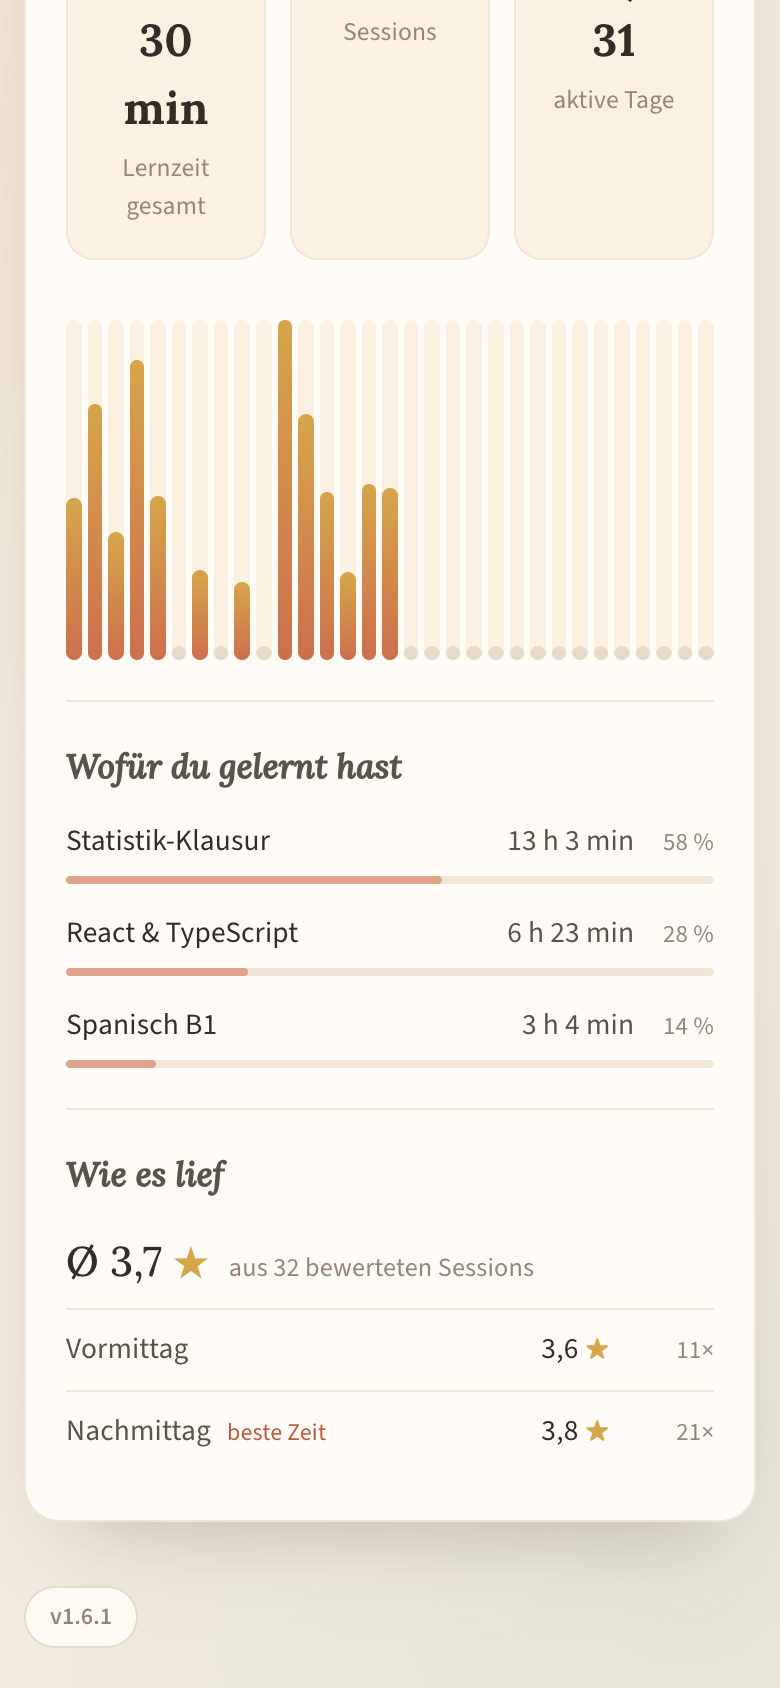
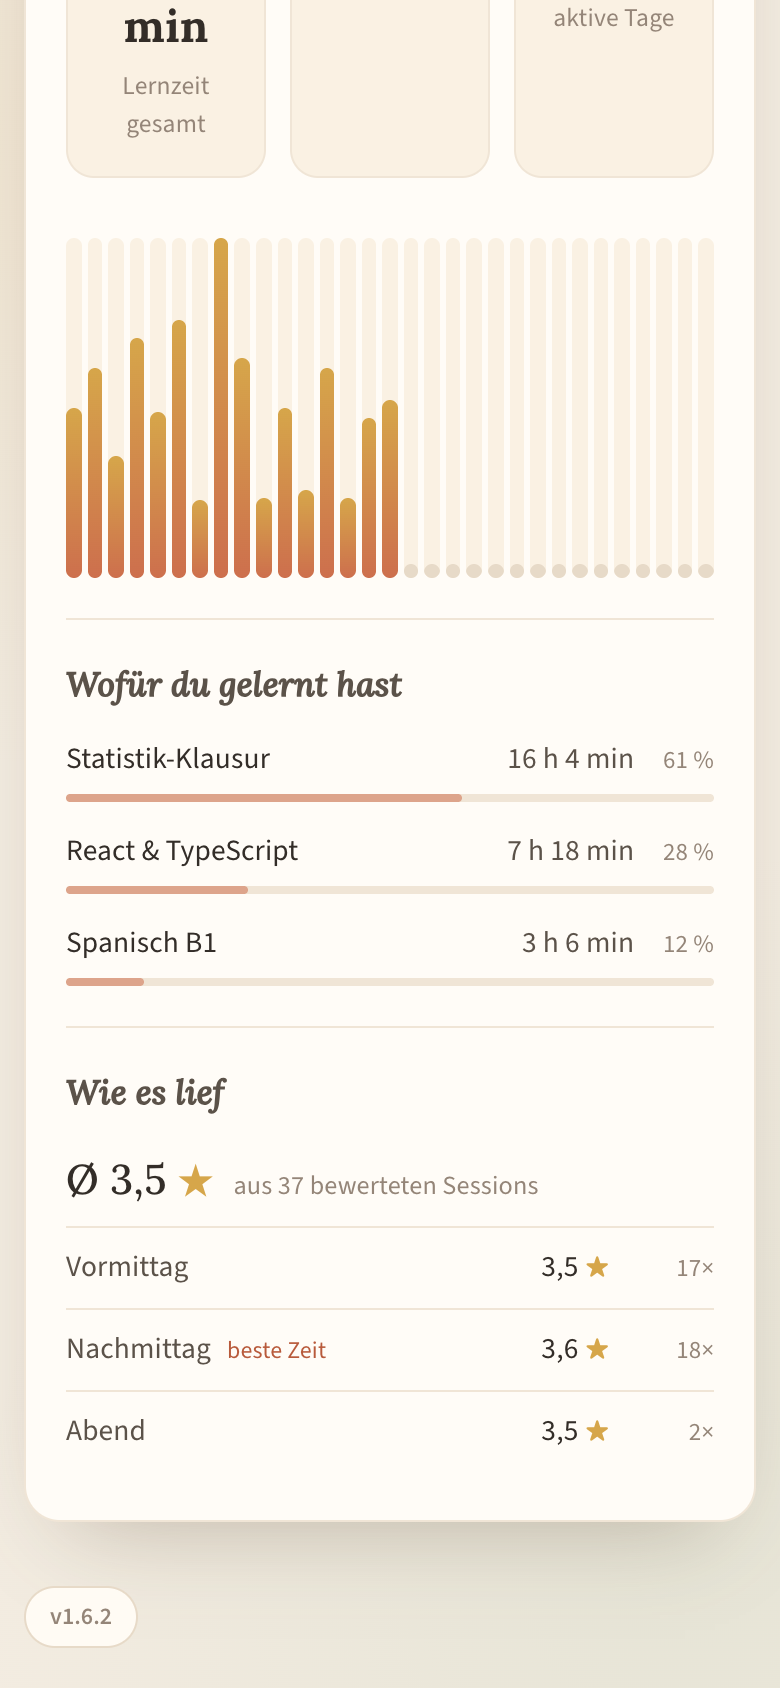
feat: v1.6.2 – Überschriften-Check entfernt
- Timer: Formular, Liste und Link für den Überschriften-Check entfernt;
  onFinish/handleFeedback schicken kein methodData mehr
- Projekt-Verlauf: Anzeige gespeicherter Überschriften-Checks entfernt
  (in der Live-DB gab es keine einzige), .heading-list-CSS gelöscht
- .timer-card mit fester Breite (520 px, max. 100 %): ohne den langen
  Link wäre die Karte sonst schmal geworden und "Session beenden" hätte
  auf dem Handy umgebrochen
- Backend unverändert: method_data bleibt als Spalte für alte Datenbanken,
  PATCH /sessions akzeptiert das Feld weiterhin von älteren Clients
- Demo-Daten ohne Überschriften-Checks, Screenshots + README aktualisiert

diff --git a/frontend/src/components/FocusTimer.jsx b/frontend/src/components/FocusTimer.jsx
@@ -31,12 +31,6 @@ export default function FocusTimer({ plannedMinutes, methodId, startedAtMs, onFi
   const [running, setRunning] = useState(initialRemaining > 0);
   const [done, setDone] = useState(initialRemaining <= 0);
 
-  // Überschriften-Check: beliebig oft während der Session nutzbar
-  const [headings, setHeadings] = useState([]);
-  const [showHeadingForm, setShowHeadingForm] = useState(false);
-  const [heading, setHeading] = useState('');
-  const [headingGuess, setHeadingGuess] = useState('');
-
   useEffect(() => {
     if (!running || done) return undefined;
 
@@ -86,21 +80,12 @@ export default function FocusTimer({ plannedMinutes, methodId, startedAtMs, onFi
     const activeSeconds = Math.floor((Date.now() - startedAtRef.current - pausedMs) / 1000);
     onFinish({
       focusSeconds: Math.min(Math.max(0, activeSeconds), total),
-      pausedSeconds: Math.round(pausedMs / 1000),
-      methodData: headings
+      pausedSeconds: Math.round(pausedMs / 1000)
     });
   };
 
   const discard = () => {
     if (window.confirm('Session wirklich verwerfen? Sie wird nicht gespeichert.')) onDiscard();
-  };
-
-  const addHeading = () => {
-    if (!heading.trim() || !headingGuess.trim()) return;
-    setHeadings((prev) => [...prev, { heading: heading.trim(), guess: headingGuess.trim() }]);
-    setHeading('');
-    setHeadingGuess('');
-    setShowHeadingForm(false);
   };
 
   const pausedSecondsTotal = Math.round(
@@ -124,56 +109,6 @@ export default function FocusTimer({ plannedMinutes, methodId, startedAtMs, onFi
             <p className="hint">Mach jetzt {breakMinutes} Minuten Pause, bevor du weitermachst.</p>
           )}
         </div>
-      )}
-
-      {headings.length > 0 && (
-        <div className="tool-box">
-          <p className="hint-label">Überschriften-Check</p>
-          <ul className="heading-list">
-            {headings.map((h, i) => (
-              <li key={i}>
-                <strong>{h.heading}</strong>
-                <span>{h.guess}</span>
-              </li>
-            ))}
-          </ul>
-        </div>
-      )}
-
-      {!done && showHeadingForm && (
-        <div className="tool-box">
-          <p className="hint-label">Überschriften-Check</p>
-          <label>
-            Nächste Überschrift
-            <input
-              type="text"
-              placeholder="z. B. Kontostruktur in Google Ads"
-              value={heading}
-              onChange={(e) => setHeading(e.target.value)}
-            />
-          </label>
-          <label>
-            Was denke ich, was das bedeutet?
-            <textarea
-              rows="2"
-              placeholder="Deine Vermutung, bevor du liest…"
-              value={headingGuess}
-              onChange={(e) => setHeadingGuess(e.target.value)}
-            />
-          </label>
-          <div className="actions">
-            <button type="button" className="secondary" onClick={() => setShowHeadingForm(false)}>Abbrechen</button>
-            <button type="button" onClick={addHeading} disabled={!heading.trim() || !headingGuess.trim()}>
-              Merken & lesen
-            </button>
-          </div>
-        </div>
-      )}
-
-      {!done && !showHeadingForm && (
-        <button className="link" onClick={() => setShowHeadingForm(true)}>
-          + Überschriften-Check (Vermutung vor dem Lesen festhalten)
-        </button>
       )}
 
       <div className="actions">

diff --git a/frontend/src/components/ProjectDashboard.jsx b/frontend/src/components/ProjectDashboard.jsx
@@ -18,20 +18,6 @@ const dayLabel = (date) => {
   return `${d}.${m}.${y}`;
 };
 
-// method_data: neues Format ist ein Array von Überschriften-Checks,
-// alte Sessions haben noch ein einzelnes Objekt {heading, headingGuess}
-const parseHeadings = (raw) => {
-  if (!raw) return [];
-  try {
-    const data = JSON.parse(raw);
-    if (Array.isArray(data)) return data;
-    if (data.heading) return [{ heading: data.heading, guess: data.guess || data.headingGuess }];
-    return [];
-  } catch {
-    return [];
-  }
-};
-
 const formatStartedAt = (dbDate) => {
   const d = parseDbDate(dbDate);
   return `${d.toLocaleDateString('de-DE', { day: '2-digit', month: '2-digit', year: '2-digit' })}, ${d.toLocaleTimeString('de-DE', { hour: '2-digit', minute: '2-digit' })} Uhr`;
@@ -42,8 +28,6 @@ const formatTime = (dbDate) =>
   `${parseDbDate(dbDate).toLocaleTimeString('de-DE', { hour: '2-digit', minute: '2-digit' })} Uhr`;
 
 function HistoryItem({ session, expanded, onToggle, onDelete }) {
-  const headings = parseHeadings(session.method_data);
-
   const handleDelete = (e) => {
     e.stopPropagation();
     if (window.confirm('Diese Session aus dem Verlauf löschen?')) onDelete(session.id);
@@ -71,19 +55,6 @@ function HistoryItem({ session, expanded, onToggle, onDelete }) {
             <>
               <p className="hint-label">Active Recall</p>
               <p className="history-text">{session.recall_text}</p>
-            </>
-          )}
-          {headings.length > 0 && (
-            <>
-              <p className="hint-label">Überschriften-Checks</p>
-              <ul className="heading-list">
-                {headings.map((h, i) => (
-                  <li key={i}>
-                    <strong>{h.heading}</strong>
-                    <span>{h.guess}</span>
-                  </li>
-                ))}
-              </ul>
             </>
           )}
           {session.feedback_note && (

diff --git a/frontend/src/style.css b/frontend/src/style.css
@@ -274,7 +274,10 @@ button.danger:hover { color: #93362b; }
 .hint-label { color: var(--muted); margin: 0; font-size: 0.78rem; text-transform: uppercase; letter-spacing: 0.09em; font-weight: 600; }
 .hint { color: var(--muted); font-style: italic; margin: 0; font-family: var(--serif); }
 
-.timer-card { align-items: center; text-align: center; }
+/* Feste Breite: Karten richten sich sonst nach ihrem breitesten Inhalt, und
+   ohne lange Texte würde der Timer schmal und "Session beenden" bricht um.
+   Auf dem Handy begrenzt max-width auf die Bildschirmbreite. */
+.timer-card { width: 520px; max-width: 100%; align-items: center; text-align: center; }
 .timer-card .tool-box { width: 100%; text-align: left; }
 .timer-card .actions { width: 100%; }
 
@@ -719,23 +722,6 @@ button.danger:hover { color: #93362b; }
 }
 .history-meta { margin: 0; color: var(--muted); font-size: 0.82rem; }
 .history-text { margin: 0; color: var(--text-soft); white-space: pre-wrap; }
-
-.heading-list {
-  list-style: none;
-  margin: 0;
-  padding: 0;
-  display: flex;
-  flex-direction: column;
-  gap: 8px;
-}
-.heading-list li {
-  display: flex;
-  flex-direction: column;
-  gap: 2px;
-  border-left: 3px solid var(--border);
-  padding-left: 10px;
-}
-.heading-list li span { color: var(--muted); font-size: 0.85rem; }
 
 .resume-banner {
   display: flex;

diff --git a/frontend/src/App.jsx b/frontend/src/App.jsx
@@ -143,8 +143,8 @@ export default function App() {
     setActiveSession(null);
   });
 
-  const handleTimerFinish = ({ focusSeconds, pausedSeconds, methodData }) => {
-    setActiveSession((prev) => ({ ...prev, focusSeconds, pausedSeconds, methodData }));
+  const handleTimerFinish = ({ focusSeconds, pausedSeconds }) => {
+    setActiveSession((prev) => ({ ...prev, focusSeconds, pausedSeconds }));
     setView('feedback');
   };
 
@@ -154,8 +154,7 @@ export default function App() {
     await api.finishSession(activeSession.id, {
       ...feedback,
       focusSeconds: activeSession.focusSeconds,
-      pausedSeconds: activeSession.pausedSeconds || 0,
-      methodData: activeSession.methodData?.length ? activeSession.methodData : null
+      pausedSeconds: activeSession.pausedSeconds || 0
     });
     const breakMinutes = breakMinutesFor(activeSession.methodId);
     if (breakMinutes) {

diff --git a/frontend/src/changelog.js b/frontend/src/changelog.js
@@ -1,8 +1,15 @@
 // Manuell gepflegt — bei jedem sichtbaren Release hier oben einen neuen Eintrag
 // ergänzen und APP_VERSION (+ "version" in package.json) hochzählen.
-export const APP_VERSION = '1.6.1';
+export const APP_VERSION = '1.6.2';
 
 export const CHANGELOG = [
+  {
+    version: '1.6.2',
+    date: '2026-10-16',
+    notes: [
+      'Überschriften-Check entfernt: Der Timer zeigt nur noch Zeit, Pause und Beenden'
+    ]
+  },
   {
     version: '1.6.1',
     date: '2026-10-16',

diff --git a/README.md b/README.md
@@ -23,7 +23,7 @@
   </tr>
 </table>
 
-<sub>Screenshots mit Demo-Daten (siehe <a href="#mit-demo-daten-ausprobieren">Mit Demo-Daten ausprobieren</a>). Aktuelle Version: 1.6.1.</sub>
+<sub>Screenshots mit Demo-Daten (siehe <a href="#mit-demo-daten-ausprobieren">Mit Demo-Daten ausprobieren</a>). Aktuelle Version: 1.6.2.</sub>
 
 ## Inhalt
 
@@ -70,7 +70,6 @@ flowchart LR
 - **Fokus-Timer** mit drei Zeitsystemen: 25/5 (Sprint), 52/17 (Deep Work) oder frei wählbar (5–180 min). Mit Pause/Weiter, Signalton und Browser-Benachrichtigung am Ende. Bei 25/5 und 52/17 startet nach dem Feedback automatisch der Pausen-Timer.
 - Der Timer rechnet mit echten Zeitstempeln statt mitgezählten Sekunden. Er bleibt also korrekt, auch wenn der Browser den Tab drosselt oder das Handy schläft.
 - **Offene Sessions:** Wird die App mitten in einer Session geschlossen, lässt sich die Session später fortsetzen oder verwerfen.
-- **Überschriften-Check:** Während der Session vor dem Lesen eines Abschnitts kurz aufschreiben, was man darunter erwartet.
 
 **Reflektieren**
 - **Feedback nach jeder Session:** Active Recall (aus dem Kopf aufschreiben, was hängengeblieben ist), Bewertung von 1–5 Sternen und eine freie Notiz.
@@ -203,7 +202,7 @@ Zum Testen mit echten Daten ein Backup kopieren und das Backend darauf zeigen la
 
 ### Mit Demo-Daten ausprobieren
 
-`scripts/seed-demo.mjs` legt eine Datenbank mit acht ausgedachten Projekten und rund 250 Sessions über das letzte Jahr an, inklusive Tagesplan für heute und einer Lern-Serie. Das Skript schreibt nur in eine leere Datei und bricht ab, wenn dort schon Projekte stehen.
+`scripts/seed-demo.mjs` legt eine Datenbank mit acht ausgedachten Projekten und gut 200 Sessions über das letzte Jahr an, inklusive Tagesplan für heute und einer Lern-Serie. Das Skript schreibt nur in eine leere Datei und bricht ab, wenn dort schon Projekte stehen.
 
 ```bash
 cd backend && npm ci && cd ..
@@ -243,7 +242,8 @@ Installierte Apps erkennen die neue Version beim Öffnen, beim Zurückholen in d
 
 | Version | Datum | Wichtigste Änderungen |
 |---|---|---|
-| **1.6.1** | 16.10.2026 | Statistik unten ruhiger und aufgeräumter, gleiche Breite in Wochen- und Monatsansicht |
+| **1.6.2** | 16.10.2026 | Überschriften-Check entfernt, der Timer ist jetzt schlichter |
+| 1.6.1 | 16.10.2026 | Statistik unten ruhiger und aufgeräumter, gleiche Breite in Wochen- und Monatsansicht |
 | 1.6.0 | 16.10.2026 | Lernkalender mit Zeitraum-Filter (3/6/12 Monate) und größeren Feldern; Statistik nach Projekt und Bewertung |
 | 1.5.2 | 16.10.2026 | Versionsnummer am Seitenende statt schwebend über dem Inhalt |
 | 1.5.0–1.5.1 | 16.10.2026 | Archiv, einklappbare Spalten, ⋯-Menü zum Archivieren und Löschen, „zuletzt gelernt“ auf den Karten |
@@ -298,7 +298,7 @@ Alle Endpunkte liegen unter `/api` und sprechen JSON. Fehler kommen als `{ "erro
 | `POST` | `/projects/:id/day-plan` | Heutigen Plan anlegen oder ersetzen: `{ goal, method, plannedSessions }` |
 | `PATCH` | `/projects/:id/day-plan` | Heutigen Plan abhaken oder wieder öffnen: `{ completed }` |
 | `POST` | `/sessions` | Session starten: `{ projectId, dayPlanId?, plannedMinutes }` |
-| `PATCH` | `/sessions/:id` | Session mit Feedback abschließen: `{ focusSeconds, pausedSeconds, efficiencyRating, recallText, feedbackNote, methodData }` |
+| `PATCH` | `/sessions/:id` | Session mit Feedback abschließen: `{ focusSeconds, pausedSeconds, efficiencyRating, recallText, feedbackNote }` |
 | `DELETE` | `/sessions/:id` | Laufende Session verwerfen oder aus dem Verlauf löschen |
 | `GET` | `/stats?period=week\|month&offset=0` | Fokuszeit pro Tag (`days`) plus `projects` (Lernzeit pro Projekt) und `rating` (Ø Bewertung, `byDaytime`). `offset=-1` ist die vorherige Woche bzw. der vorherige Monat |
 | `GET` | `/stats?period=lastMonths&months=12` | Dasselbe für den Lernkalender: vom 1. des Monats vor `months − 1` Monaten bis heute (1–12) |
@@ -309,7 +309,7 @@ Alle Endpunkte liegen unter `/api` und sprechen JSON. Fehler kommen als `{ "erro
 |---|---|
 | `projects` | `name` (eindeutig), `status` (`active`/`paused`/`done`), `archived_at` |
 | `day_plans` | `project_id`, `date` (lokales Datum, eindeutig pro Projekt), `goal`, `method` (`sprint`, `deep` oder `free:<Minuten>`), `planned_sessions`, `completed_at` |
-| `sessions` | `project_id`, `day_plan_id`, `planned_minutes`, `started_at`, `ended_at` (leer = offene Session), `focus_seconds`, `paused_seconds`, `efficiency_rating`, `recall_text`, `feedback_note`, `method_data` (Überschriften-Checks als JSON) |
+| `sessions` | `project_id`, `day_plan_id`, `planned_minutes`, `started_at`, `ended_at` (leer = offene Session), `focus_seconds`, `paused_seconds`, `efficiency_rating`, `recall_text`, `feedback_note`. Dazu `method_data` aus dem früheren Überschriften-Check (seit v1.6.2 ungenutzt, bleibt für alte Datenbanken bestehen) |
 
 ## Grenzen und Ideen
 
